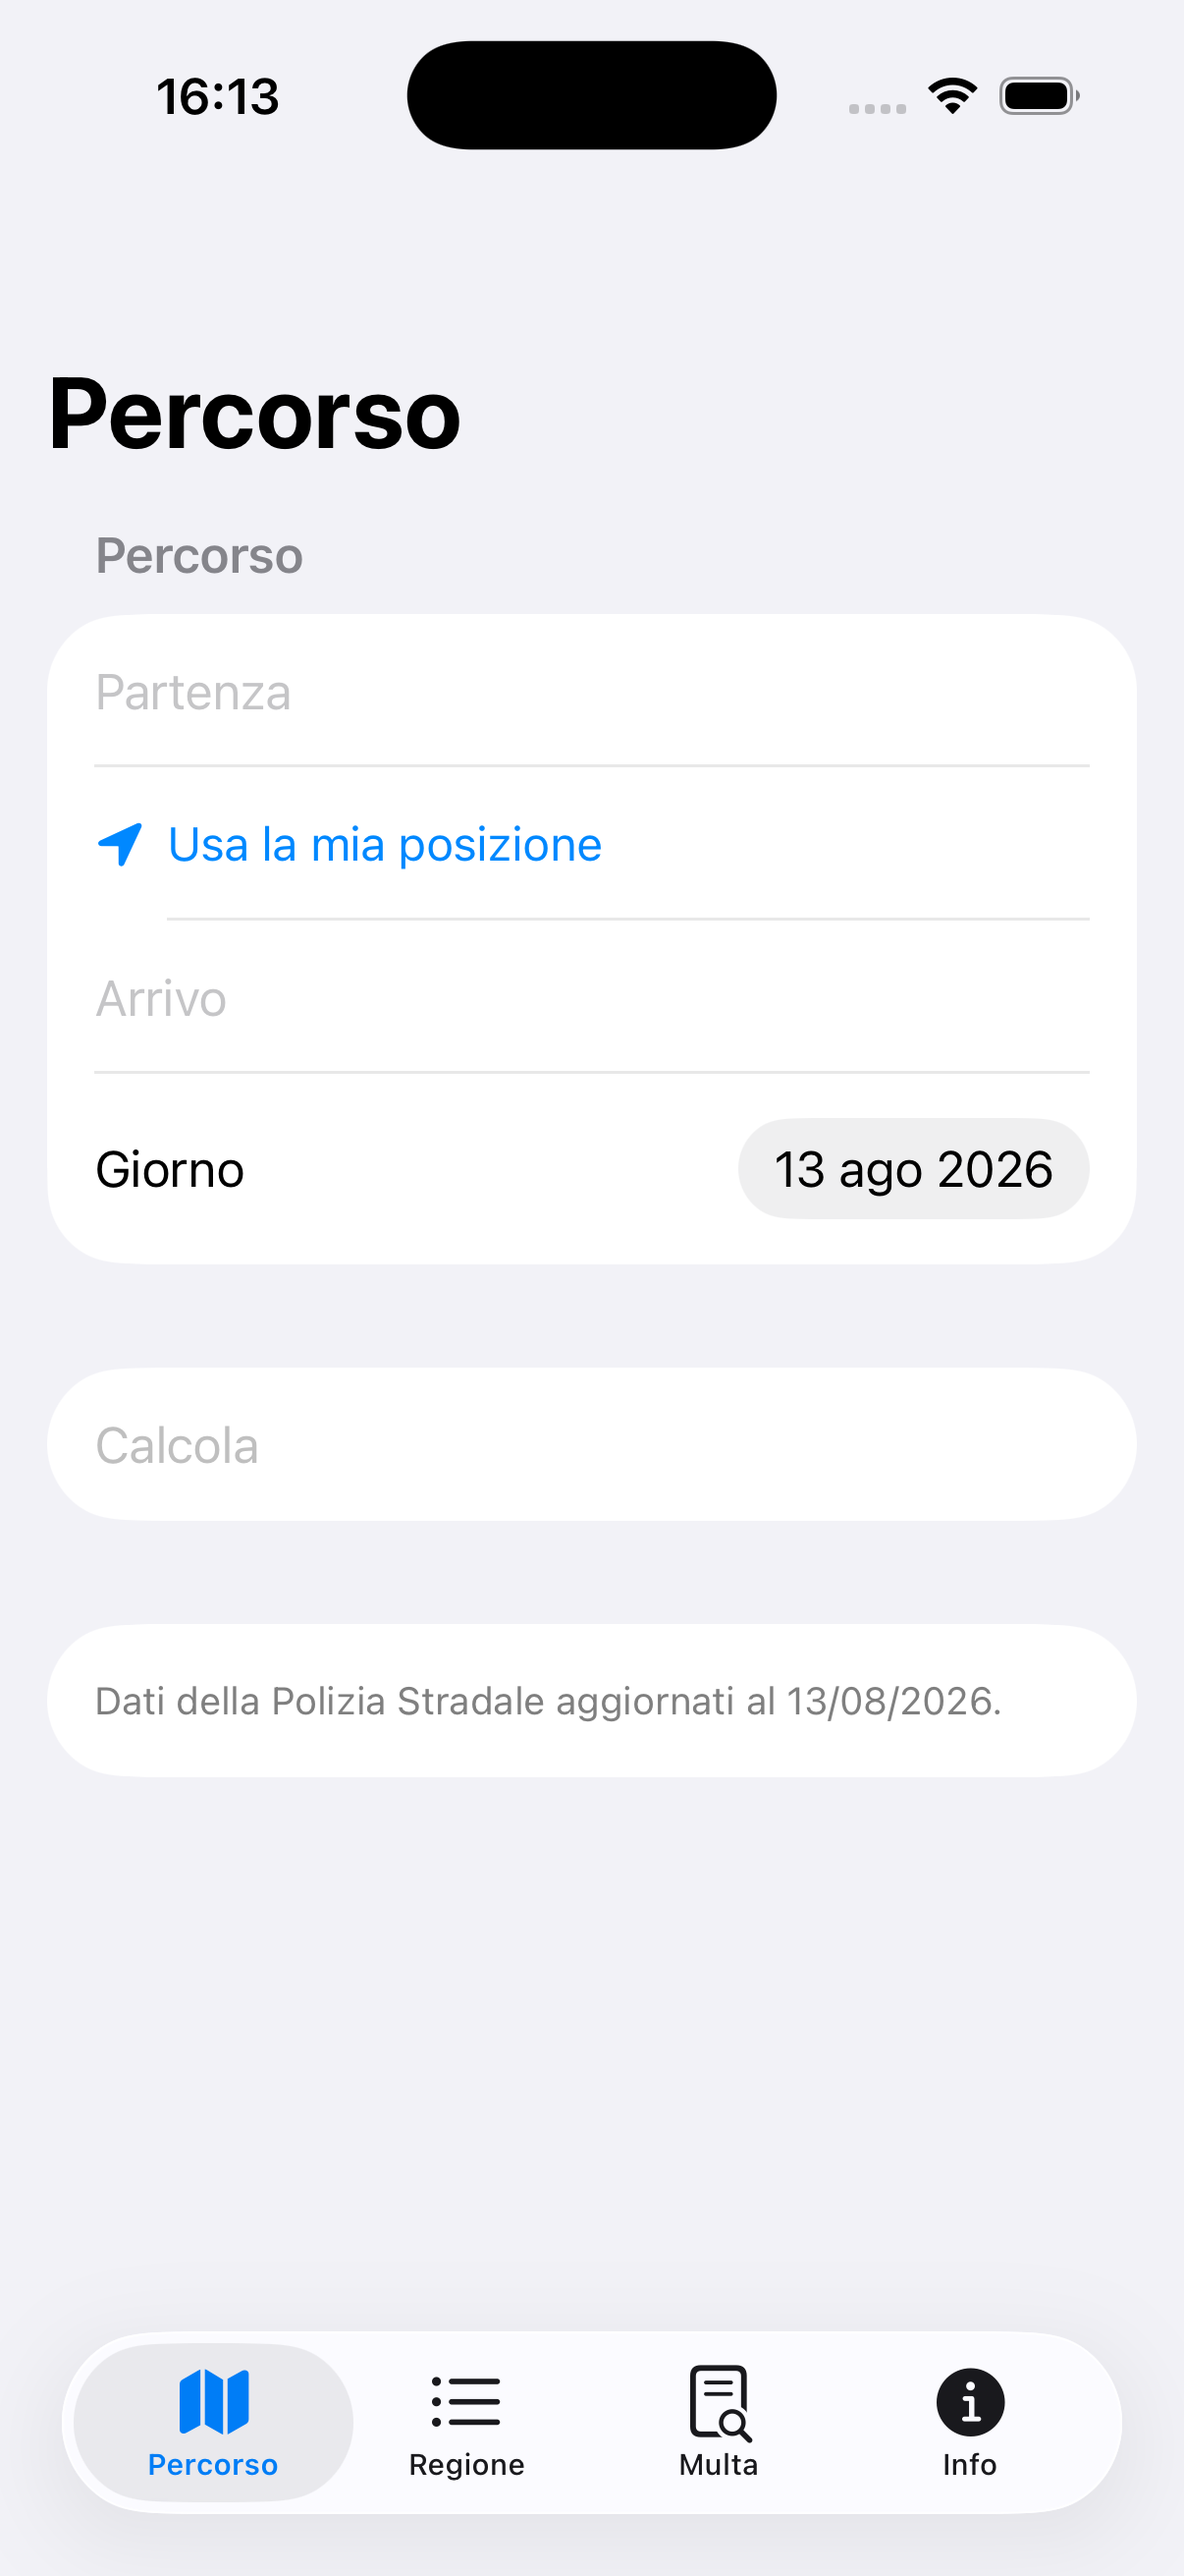
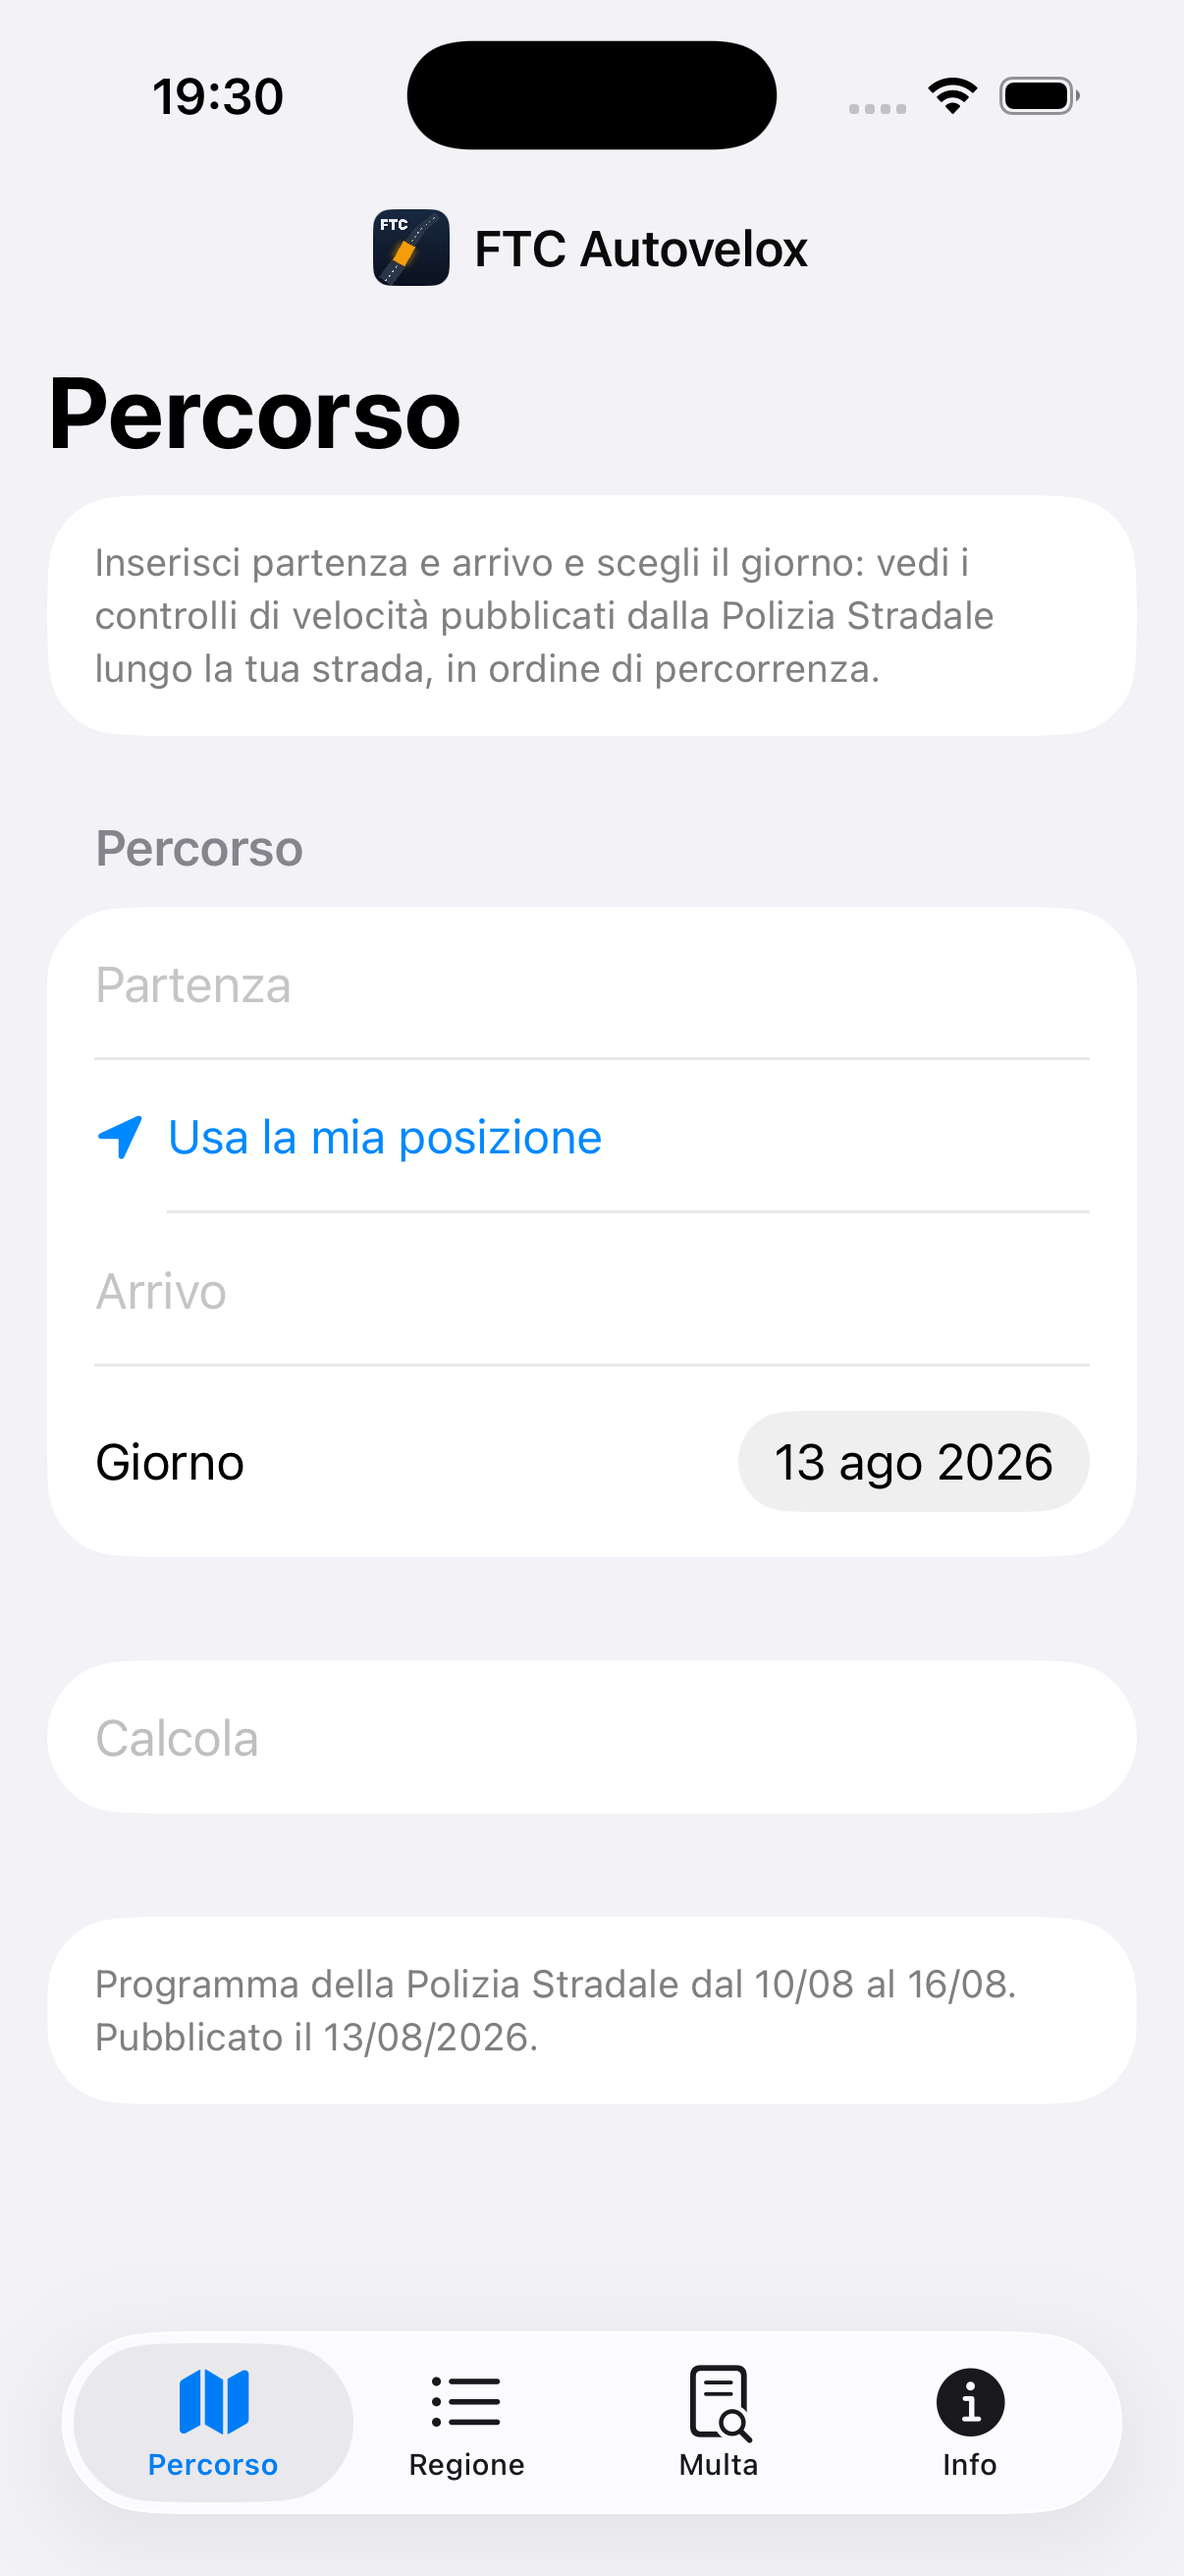
feat(ios): branding, route intro, live trip map, real coverage window
- Logo and name on Percorso.
- One-line intro explaining what the screen does.
- Trip mode gains a live map: your position against the route, the monitored
  stretches and any placed cameras, so 'how close am I' is answerable at a
  glance rather than only by a spoken warning.
- The freshness line now states the period the programme covers, and the date
  picker is bounded by it.

That last one was a real defect, not a nicety. The window is printed on every
regional PDF ('Validita da lunedi X a domenica Y') and was published in the
snapshot, but the app was inferring the selectable range from the ISO week
number instead - a guess that happens to agree most weeks. Offering a day
outside the data returns an empty result that reads as 'no checks' when it
actually means 'not published'.

55 Swift tests.

diff --git a/ios/App/Views/TripView.swift b/ios/App/Views/TripView.swift
@@ -1,4 +1,5 @@
 import SwiftUI
+import MapKit
 import UIKit
 import VeloxKit
 
@@ -13,12 +14,21 @@ struct TripView: View {
     @State private var lastAlert: VeloxKit.Alert?
     @State private var progressMetres: Double = 0
     @State private var hasFix = false
+    /// Follows the vehicle. The point of the map is judging distance to the
+    /// highlighted stretch at a glance, so it stays centred on you.
+    @State private var camera: MapCameraPosition = .userLocation(fallback: .automatic)
 
     var body: some View {
-        VStack(spacing: 24) {
+        VStack(spacing: 16) {
             Text("Modalità viaggio attiva")
                 .font(.title2.weight(.semibold))
-                .padding(.top, 32)
+                .padding(.top, 20)
+
+            tripMap
+                .frame(maxWidth: .infinity)
+                .frame(height: 260)
+                .clipShape(RoundedRectangle(cornerRadius: 14))
+                .padding(.horizontal)
 
             if let alert = lastAlert {
                 Text(alert.message)
@@ -89,6 +99,79 @@ struct TripView: View {
                 announcer.speak(alert.message)
             }
         }
+    }
+
+    /// Live map: your position against the route and the monitored stretches.
+    ///
+    /// A stretch is drawn as the road it covers rather than a pin, because the
+    /// sources never say where along it the installation stands. Seeing the band
+    /// approach is the honest version of "how close am I".
+    @ViewBuilder
+    private var tripMap: some View {
+        Map(position: $camera) {
+            UserAnnotation()
+
+            MapPolyline(coordinates: result.routeCoordinates)
+                .stroke(.blue.opacity(0.65), lineWidth: 4)
+
+            ForEach(matchedSegments, id: \.id) { segment in
+                MapPolyline(coordinates: segment.coordinates.map {
+                    CLLocationCoordinate2D(latitude: $0.lat, longitude: $0.lon)
+                })
+                .stroke(.orange, lineWidth: 7)
+            }
+
+            ForEach(fixedStretches, id: \.id) { item in
+                MapPolyline(coordinates: item.coordinates.map {
+                    CLLocationCoordinate2D(latitude: $0.lat, longitude: $0.lon)
+                })
+                .stroke(.red.opacity(0.6), lineWidth: 8)
+            }
+
+            ForEach(fixedPoints, id: \.0.id) { camera, coordinate in
+                Marker(camera.roadRef ?? camera.roadName,
+                       systemImage: "camera.fill",
+                       coordinate: CLLocationCoordinate2D(
+                           latitude: coordinate.lat, longitude: coordinate.lon))
+                .tint(.red)
+            }
+        }
+        .mapControls {
+            MapUserLocationButton()
+            MapCompass()
+        }
+    }
+
+    private var fixedStretches: [(id: String, coordinates: [Coordinate])] {
+        fixedFindings.flatMap { camera, _ in
+            camera.uncertaintyStretches.enumerated().map { index, stretch in
+                (id: "\(camera.id)-\(index)", coordinates: stretch)
+            }
+        }
+    }
+
+    private var fixedPoints: [(FixedCamera, Coordinate)] {
+        fixedFindings.compactMap { camera, _ in
+            guard camera.uncertaintyStretches.isEmpty,
+                  let coordinate = camera.coordinate else { return nil }
+            return (camera, coordinate)
+        }
+    }
+
+    private var fixedFindings: [(FixedCamera, Double)] {
+        result.findings.compactMap {
+            if case .fixed(let camera, let metres) = $0 { return (camera, metres) }
+            return nil
+        }
+    }
+
+    private var matchedSegments: [RoadSegment] {
+        guard let snapshot = provider.snapshot else { return [] }
+        let ids = Set(result.findings.compactMap { finding -> String? in
+            if case .mobile(let check, _) = finding { return check.segmentId }
+            return nil
+        })
+        return snapshot.roadSegments.filter { ids.contains($0.id) }
     }
 
     @Environment(SnapshotProvider.self) private var provider

diff --git a/ios/App/Views/RouteView.swift b/ios/App/Views/RouteView.swift
@@ -34,6 +34,12 @@ struct RouteView: View {
     var body: some View {
         NavigationStack {
             Form {
+                Section {
+                    Text(Copy.routeIntro)
+                        .font(.footnote)
+                        .foregroundStyle(.secondary)
+                }
+
                 Section("Percorso") {
                     TextField("Partenza", text: $origin)
                         .textInputAutocapitalization(.words)
@@ -83,6 +89,19 @@ struct RouteView: View {
                 }
             }
             .navigationTitle("Percorso")
+            .toolbar {
+                ToolbarItem(placement: .principal) {
+                    HStack(spacing: 8) {
+                        Image("Logo")
+                            .resizable()
+                            .aspectRatio(contentMode: .fit)
+                            .frame(width: 26, height: 26)
+                            .clipShape(RoundedRectangle(cornerRadius: 6))
+                        Text("FTC Autovelox")
+                            .font(.headline)
+                    }
+                }
+            }
             .navigationDestination(item: $result) { result in
                 ResultView(result: result)
             }
@@ -90,6 +109,10 @@ struct RouteView: View {
                 TripView(result: demo)
             }
             .task { await presentDemoTripIfRequested() }
+            .onChange(of: provider.snapshot?.index.week) { _, _ in
+                clampDateIntoCoverage()
+            }
+            .onAppear { clampDateIntoCoverage() }
         }
     }
 
@@ -117,14 +140,30 @@ struct RouteView: View {
         )
     }
 
-    /// The selectable days: the published snapshot week when known.
+    /// The selectable days.
+    ///
+    /// Uses the window the Polizia actually printed on the PDFs
+    /// ("Validità da ... a ...") rather than inferring it from the ISO week
+    /// number. Offering a day the data does not cover would return an empty
+    /// result that looks like "no checks" when it really means "not published".
     private var dateRange: ClosedRange<Date> {
+        if let published = provider.coverageRange {
+            return published
+        }
         if let week = provider.snapshot?.index.week,
            let range = Self.weekRange(week),
            range.contains(date) || date < range.upperBound {
             return range
         }
         return Date()...Date().addingTimeInterval(6 * 86_400)
+    }
+
+    /// Clamp the selection into the covered window, so the picker never opens
+    /// on a day outside the data.
+    private func clampDateIntoCoverage() {
+        guard let range = provider.coverageRange else { return }
+        if date < range.lowerBound { date = range.lowerBound }
+        if date > range.upperBound { date = range.upperBound }
     }
 
     static func weekRange(_ week: String) -> ClosedRange<Date>? {

diff --git a/ios/VeloxKit/Sources/VeloxKit/Snapshot.swift b/ios/VeloxKit/Sources/VeloxKit/Snapshot.swift
@@ -23,15 +23,51 @@ public struct RegionStatus: Codable, Equatable, Sendable {
     }
 }
 
+/// The window the published weekly programme actually covers.
+///
+/// The Polizia publish "Validità da lunedì X a domenica Y" on each regional PDF.
+/// Deriving the window from the ISO week number instead would be a guess that
+/// happens to be right most weeks; this is what the source says.
+public struct Coverage: Codable, Equatable, Sendable {
+    public let validFrom: String?
+    public let validTo: String?
+
+    enum CodingKeys: String, CodingKey {
+        case validFrom = "valid_from"
+        case validTo = "valid_to"
+    }
+}
+
+public struct SnapshotSources: Codable, Equatable, Sendable {
+    public let poliziaMobile: Coverage?
+
+    enum CodingKeys: String, CodingKey {
+        case poliziaMobile = "polizia_mobile"
+    }
+}
+
 public struct SnapshotIndex: Codable, Equatable, Sendable {
     public let schemaVersion: Int
     public let generatedAt: String
     public let week: String
     public let regions: [String: RegionStatus]
     public let quarantineCount: Int
+    public let sources: SnapshotSources?
+
+    /// First and last day the published programme covers, as Dates.
+    public var coverage: (from: Date, to: Date)? {
+        let formatter = DateFormatter()
+        formatter.dateFormat = "yyyy-MM-dd"
+        formatter.timeZone = TimeZone(identifier: "Europe/Rome")
+        guard let f = sources?.poliziaMobile?.validFrom,
+              let t = sources?.poliziaMobile?.validTo,
+              let from = formatter.date(from: f),
+              let to = formatter.date(from: t) else { return nil }
+        return (from, to)
+    }
 
     enum CodingKeys: String, CodingKey {
-        case week, regions
+        case week, regions, sources
         case schemaVersion = "schema_version"
         case generatedAt = "generated_at"
         case quarantineCount = "quarantine_count"

diff --git a/ios/App/Services/SnapshotProvider.swift b/ios/App/Services/SnapshotProvider.swift
@@ -38,11 +38,25 @@ final class SnapshotProvider {
     /// them whether to trust the screen. A failed refresh over current data is a
     /// statement of fact, not a warning.
     var freshnessNote: String? {
-        guard snapshot != nil else { return nil }
+        guard let snapshot else { return nil }
         if didRefreshFail && !isDataCurrent {
             return Copy.refreshFailed(publishedAt: publishedAtDisplay)
         }
+        if let coverage = snapshot.index.coverage {
+            let short = DateFormatter()
+            short.locale = Locale(identifier: "it_IT")
+            short.dateFormat = "dd/MM"
+            return Copy.dataCoverage(from: short.string(from: coverage.from),
+                                     to: short.string(from: coverage.to),
+                                     publishedAt: publishedAtDisplay)
+        }
         return Copy.dataAsOf(publishedAt: publishedAtDisplay)
+    }
+
+    /// The days the published programme covers, for bounding the date picker.
+    var coverageRange: ClosedRange<Date>? {
+        guard let c = snapshot?.index.coverage, c.from <= c.to else { return nil }
+        return c.from...c.to
     }
 
     /// The snapshot's publication date, formatted dd/MM/yyyy for display.

diff --git a/ios/VeloxKit/Tests/VeloxKitTests/SnapshotTests.swift b/ios/VeloxKit/Tests/VeloxKitTests/SnapshotTests.swift
@@ -95,3 +95,26 @@ extension SnapshotTests {
         XCTAssertFalse(camera.isLocated)
     }
 }
+
+// MARK: - Coverage window
+
+extension SnapshotTests {
+    /// The date picker must offer only days the published programme covers.
+    /// Deriving that from the ISO week number is a guess; the PDF states it.
+    func testCoverageWindowComesFromTheSource() throws {
+        let snapshot = try Snapshot.load(from: fixtureURL())
+        let coverage = try XCTUnwrap(snapshot.index.coverage)
+
+        let formatter = DateFormatter()
+        formatter.dateFormat = "yyyy-MM-dd"
+        formatter.timeZone = TimeZone(identifier: "Europe/Rome")
+        XCTAssertEqual(formatter.string(from: coverage.from), "2026-08-10")
+        XCTAssertEqual(formatter.string(from: coverage.to), "2026-08-16")
+    }
+
+    func testCoverageIsNilWhenTheSourceDidNotStateIt() throws {
+        let json = #"{"schema_version":1,"generated_at":"2026-08-13T06:00:00Z","week":"2026-W33","regions":{},"quarantine_count":0}"#
+        let index = try SnapshotIndex.decode(from: XCTUnwrap(json.data(using: .utf8)))
+        XCTAssertNil(index.coverage, "no window stated means no window claimed")
+    }
+}

diff --git a/ios/VeloxKit/Sources/VeloxKit/Copy.swift b/ios/VeloxKit/Sources/VeloxKit/Copy.swift
@@ -110,3 +110,20 @@ public extension Copy {
         "Aggiornamento non riuscito. Stai vedendo i dati pubblicati il \(publishedAt)."
     }
 }
+
+public extension Copy {
+    /// One line on the route screen explaining what it will do.
+    static let routeIntro = """
+        Inserisci partenza e arrivo e scegli il giorno: vedi i controlli di \
+        velocità pubblicati dalla Polizia Stradale lungo la tua strada, in \
+        ordine di percorrenza.
+        """
+
+    /// Freshness plus the window the published programme actually covers.
+    ///
+    /// The period is the useful half: it tells the user whether the day they
+    /// care about is inside the data at all.
+    static func dataCoverage(from: String, to: String, publishedAt: String) -> String {
+        "Programma della Polizia Stradale dal \(from) al \(to). Pubblicato il \(publishedAt)."
+    }
+}

diff --git a/ios/VeloxKit/Tests/VeloxKitTests/CopyTests.swift b/ios/VeloxKit/Tests/VeloxKitTests/CopyTests.swift
@@ -17,6 +17,8 @@ final class CopyTests: XCTestCase {
             Copy.mitNoMatch,
             Copy.stretchEntryAlert(road: "A4"),
             Copy.appPurpose,
+            Copy.routeIntro,
+            Copy.dataCoverage(from: "10/08", to: "16/08", publishedAt: "13/08/2026"),
             Copy.dataAsOf(publishedAt: "13/08/2026"),
             Copy.refreshFailed(publishedAt: "13/08/2026"),
         ]
